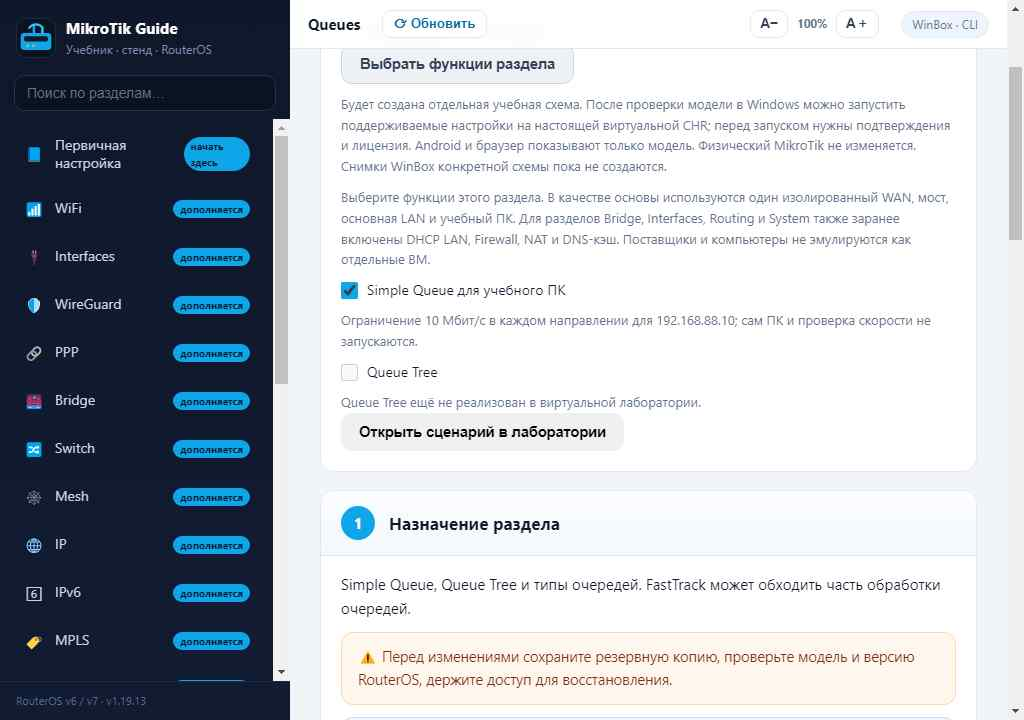
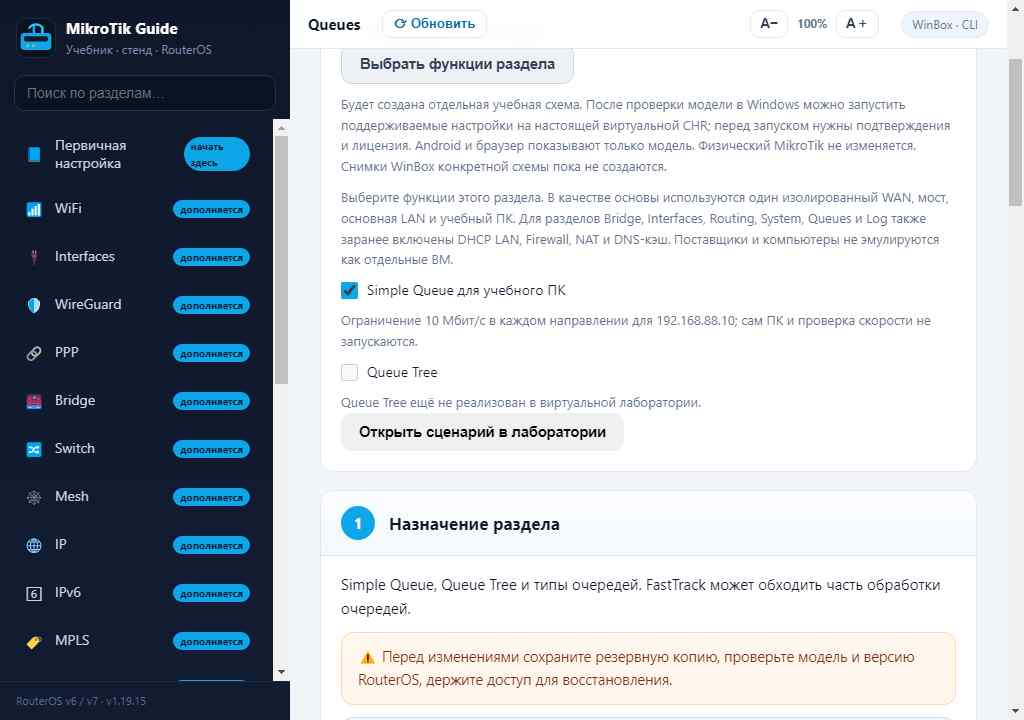
Verify combined System case and refresh guide screenshots

Changed region(s): [[0.3125, 0.275, 0.9062, 0.3667], [0.9688, 0.275, 1.0, 0.3361], [0.9688, 0.0611, 1.0, 0.0917]]

diff --git a/tools/capture-guide-system.js b/tools/capture-guide-system.js
@@ -1,0 +1,12 @@
+/* Disposable Windows Electron CI screenshot of the guide, no CHR or network. */
+'use strict';
+const {app,BrowserWindow}=require('electron'),fs=require('fs'),path=require('path');
+app.commandLine.appendSwitch('disable-gpu');
+app.whenReady().then(async()=>{
+ const win=new BrowserWindow({width:1200,height:1050,show:false,webPreferences:{offscreen:true,sandbox:true,contextIsolation:true,nodeIntegration:false}});
+ try{
+  await win.loadFile(path.resolve(__dirname,'../windows/www/index.html'));
+  await win.webContents.executeJavaScript(`(async()=>{location.hash='ros-system';await new Promise(r=>setTimeout(r,300));const root=document.querySelector('.guide-lab');root.querySelector('button').click();const identity=root.querySelector('input[value="identity"]'),ntp=root.querySelector('input[value="ntp"]'),system=root.querySelector('input[value="log-system"]'),intf=root.querySelector('input[value="log-interface"]'),cloud=root.querySelector('input[value="cloud"]');if(!identity||!identity.checked||!ntp||!system||!intf||!cloud||!cloud.disabled)throw Error('Invalid System choices');for(const box of [ntp,system,intf]){if(box.disabled)throw Error('System choice unavailable');box.checked=true;box.dispatchEvent(new Event('change'));}if(root.querySelector('.guide-lab-start').disabled)throw Error('System choice blocked');root.scrollIntoView({block:'start'});await new Promise(r=>setTimeout(r,600));})()`);
+  const img=await win.webContents.capturePage();if(img.isEmpty())throw Error('Empty screenshot');fs.writeFileSync(path.join(process.env.RUNNER_TEMP,'guide-lab-ready.jpg'),img.toJPEG(35));
+ }catch(e){console.error('Screenshot failed:',e.message);process.exitCode=1;}finally{win.destroy();app.quit();}
+});

diff --git a/app/assets/img/own/SOURCES.md b/app/assets/img/own/SOURCES.md
@@ -58,8 +58,8 @@
 
 `chr-checked-result-windows.jpg` — оригинальный снимок окна Windows Electron после проверки учебной схемы в [CI 41298198916](https://github.com/zigorminsk-debug/mikrotik/actions/runs/41298198916). Интерфейс Windows подменён тестом, CHR, WinBox и сеть не запускались. Изображение проверено визуально, это не снимок WinBox и не пользовательская схема.
 
-`guide-lab-selection-windows.jpg` и `guide-lab-conflict-windows.jpg` — оригинальные снимки Windows Electron приложения из [CI 41303022826](https://github.com/zigorminsk-debug/mikrotik/actions/runs/41303022826). Тест раскрыл выбор функций в разделе IP, отметил учебную публикацию NAT и затем одновременно отметил статический и DHCP WAN; кнопка перехода отключилась. CHR, WinBox, реальный интернет и физический роутер не запускались. Это не снимки WinBox; оба кадра визуально проверены.
+`guide-lab-selection-windows.jpg` и `guide-lab-conflict-windows.jpg` — оригинальные снимки Windows Electron приложения из [CI 41312889667](https://github.com/zigorminsk-debug/mikrotik/actions/runs/41312889667). Тест раскрыл выбор функций в разделе IP, отметил учебную публикацию NAT и затем одновременно отметил статический и DHCP WAN; кнопка перехода отключилась. CHR, WinBox, реальный интернет и физический роутер не запускались. Это не снимки WinBox; оба кадра визуально проверены.
 
-`guide-lab-queue-windows.jpg` — оригинальный снимок Windows Electron из [CI 41305654409](https://github.com/zigorminsk-debug/mikrotik/actions/runs/41305654409): выбран Simple Queue, Queue Tree недоступен. Изображение визуально проверено; CHR, WinBox, клиент и сеть не запускались. Это не снимок WinBox.
+`guide-lab-queue-windows.jpg` — оригинальный снимок Windows Electron из [CI 41312889734](https://github.com/zigorminsk-debug/mikrotik/actions/runs/41312889734): выбран Simple Queue, Queue Tree недоступен. Изображение визуально проверено; CHR, WinBox, клиент и сеть не запускались. Это не снимок WinBox.
 
-`guide-lab-log-windows.jpg` — оригинальный снимок Windows Electron из [CI 41311210019](https://github.com/zigorminsk-debug/mikrotik/actions/runs/41311210019): выбраны темы system и interface, удалённый syslog недоступен. Снимок визуально проверен; CHR и WinBox не запускались, это не снимок WinBox.
+`guide-lab-log-windows.jpg` — оригинальный снимок Windows Electron из [CI 41312889660](https://github.com/zigorminsk-debug/mikrotik/actions/runs/41312889660): выбраны темы system и interface, удалённый syslog недоступен. Снимок визуально проверен; CHR и WinBox не запускались, это не снимок WinBox.

diff --git a/docs/guide-lab.md b/docs/guide-lab.md
@@ -24,4 +24,4 @@
 
 Раздел Log позволяет выбрать правила system и interface с действием memory и префиксами lab-system и lab-interface. Виртуальная CHR должна подтвердить правила через REST; возникновение событий, их содержание и сохранность после выключения не проверяются. Удалённый syslog недоступен. Журналы могут содержать чувствительные данные. [CI 41311181683](https://github.com/zigorminsk-debug/mikrotik/actions/runs/41311181683) подтвердил обе выбранные темы на одноразовой CHR через REST; события и сохранность не проверялись. [CI 41311210019](https://github.com/zigorminsk-debug/mikrotik/actions/runs/41311210019) получил визуально проверенный снимок выбора в Windows-приложении без запуска CHR или WinBox. Версия 1.19.14 опубликована.
 
-С версии 1.19.15 правила журнала также выбираются в System совместно с именем и NTP. Выбор и объединённый план должны быть проверены на одноразовой CHR; журнальные события и реальную синхронизацию времени проверка плана не подтверждает. Сборка и CI выполняются.
+С версии 1.19.15 правила журнала также выбираются в System совместно с именем и NTP. Выбор и объединённый план должны быть проверены на одноразовой CHR; журнальные события и реальную синхронизацию времени проверка плана не подтверждает. [Windows CHR CI 41312889653](https://github.com/zigorminsk-debug/mikrotik/actions/runs/41312889653) проверил объединённый выбор имени, NTP и обеих тем журнала через REST на одноразовой CHR; сборка и выпуск выполняются.

diff --git a/docs/releases/1.19.15.md b/docs/releases/1.19.15.md
@@ -2,5 +2,6 @@
 
 - Раздел System позволяет выбрать правила журнала тем system и interface совместно с именем и NTP. В карточках уточнено, какие базовые настройки заранее добавляются в сценарии Queues и Log. Существующая схема заменяется только после подтверждения.
 - Совместимая схема запускается отдельно на виртуальной CHR в Windows после необходимых согласий. Правила журнала используют память: возникновение событий и их сохранность не проверяются. Также не проверяются доступность NTP и фактическая синхронизация времени. Журнал может содержать чувствительные данные; физический MikroTik не изменяется.
+- [Windows CHR CI 41312889653](https://github.com/zigorminsk-debug/mikrotik/actions/runs/41312889653) применил выбранные имя, NTP и обе темы журнала к одноразовой CHR и проверил настройки через REST. Запись событий, синхронизация NTP и установленный EXE по этому пути не проверены.
 - Многие разделы и функции ещё не поддерживаются. Автоматические оригинальные снимки WinBox всех настроек конкретной пользовательской схемы не реализованы.
 - Ключ подписи APK намеренно хранится в репозитории по требованию владельца, он публичен и не доказывает авторство. Устанавливайте только из доверенного источника.

diff --git a/docs/HANDOFF.md b/docs/HANDOFF.md
@@ -57,7 +57,7 @@ GitHub не применяет фильтры `paths` к push тегов: тег
 
 ## В работе: System + журнал (1.19.15)
 
-В сценарии System можно выбрать правила журнала system/interface одновременно с именем и NTP; базовый набор теперь явно перечисляет Queues и Log. Настройка только для виртуальной CHR; журнал и синхронизация NTP не проверяются как события. Локальные тесты, CI и выпуск выполняются. Уточнённая диагностика OCR остаётся CI-only; автоснимки пользовательской схемы не реализованы.
+В сценарии System можно выбрать правила журнала system/interface одновременно с именем и NTP; базовый набор теперь явно перечисляет Queues и Log. Настройка только для виртуальной CHR; журнал и синхронизация NTP не проверяются как события. Локально пройдены 59 допустимых и 303 конфликтных наборов; [CI 41312889653](https://github.com/zigorminsk-debug/mikrotik/actions/runs/41312889653) проверил объединённый выбор на настоящей одноразовой CHR через REST; выпуск выполняется. В [OCR CI 41312889644](https://github.com/zigorminsk-debug/mikrotik/actions/runs/41312889644) адрес найден, но точный интерфейс — нет: частичные счётчики bridge/lan/оба равны 2/0/0, карточка не открыта. Уточнённая диагностика OCR остаётся CI-only; автоснимки пользовательской схемы не реализованы.
 
 ## Выпущено: Log (1.19.14)
 

diff --git a/docs/NEXT.md b/docs/NEXT.md
@@ -7,7 +7,7 @@
 
 ## В работе: NAT из раздела IP и поиск настройки WinBox
 
-В коде 1.19.15 добавляется выбор правил журнала из System вместе с именем и NTP. Необходимо проверить объединённый сценарий на одноразовой CHR и опубликовать выпуск.
+В коде 1.19.15 добавляется выбор правил журнала из System вместе с именем и NTP. Объединённый сценарий проверен на одноразовой CHR [CI 41312889653](https://github.com/zigorminsk-debug/mikrotik/actions/runs/41312889653); выпуск предстоит. OCR CI 41312889644 нашёл адрес, но не точное имя интерфейса, даже частичный lan не распознан; пользовательских снимков нет.
 
 В коде 1.19.14 добавляется Log: правила тем system и interface в памяти; удалённый syslog не реализован. Windows CHR CI 41311181683 подтвердил правила, снимок Windows-приложения 41311210019 визуально проверен; 1.19.14 опубликован; события не подтверждаются лишь существованием правил.
 
